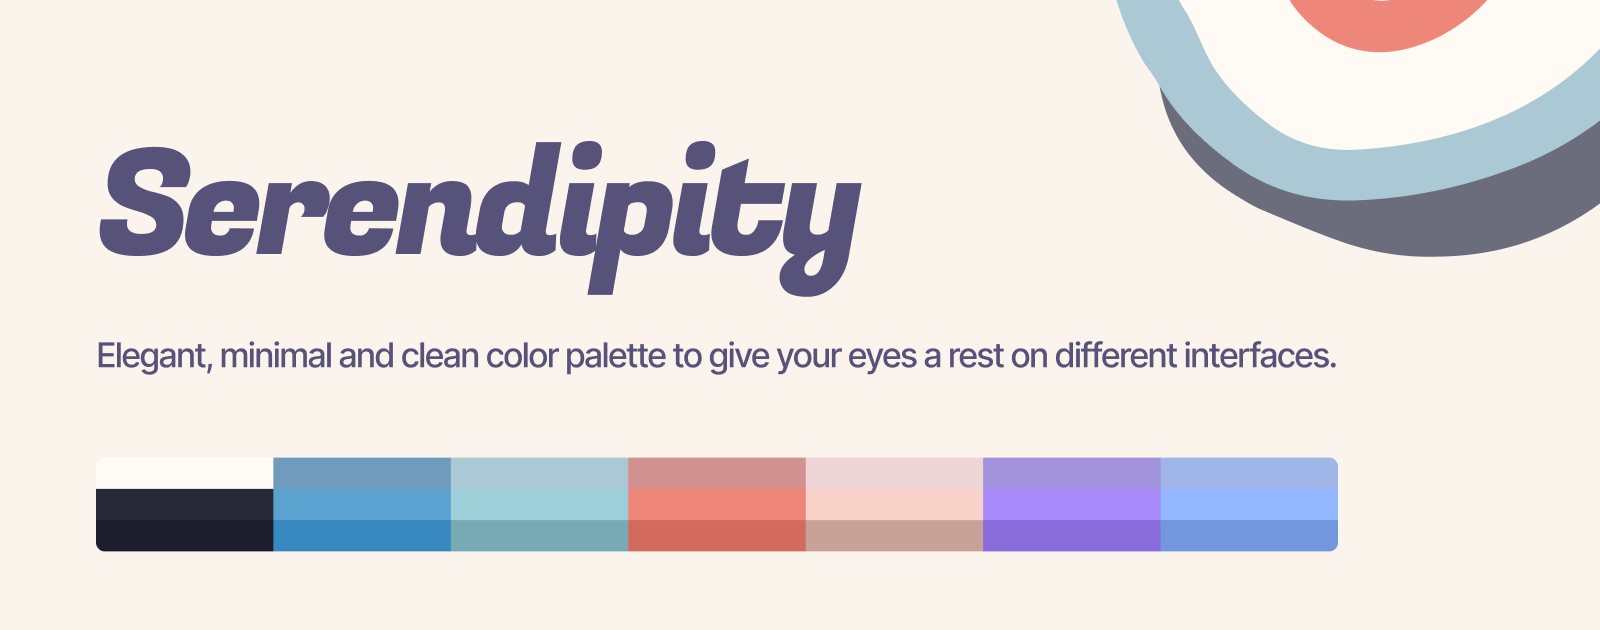
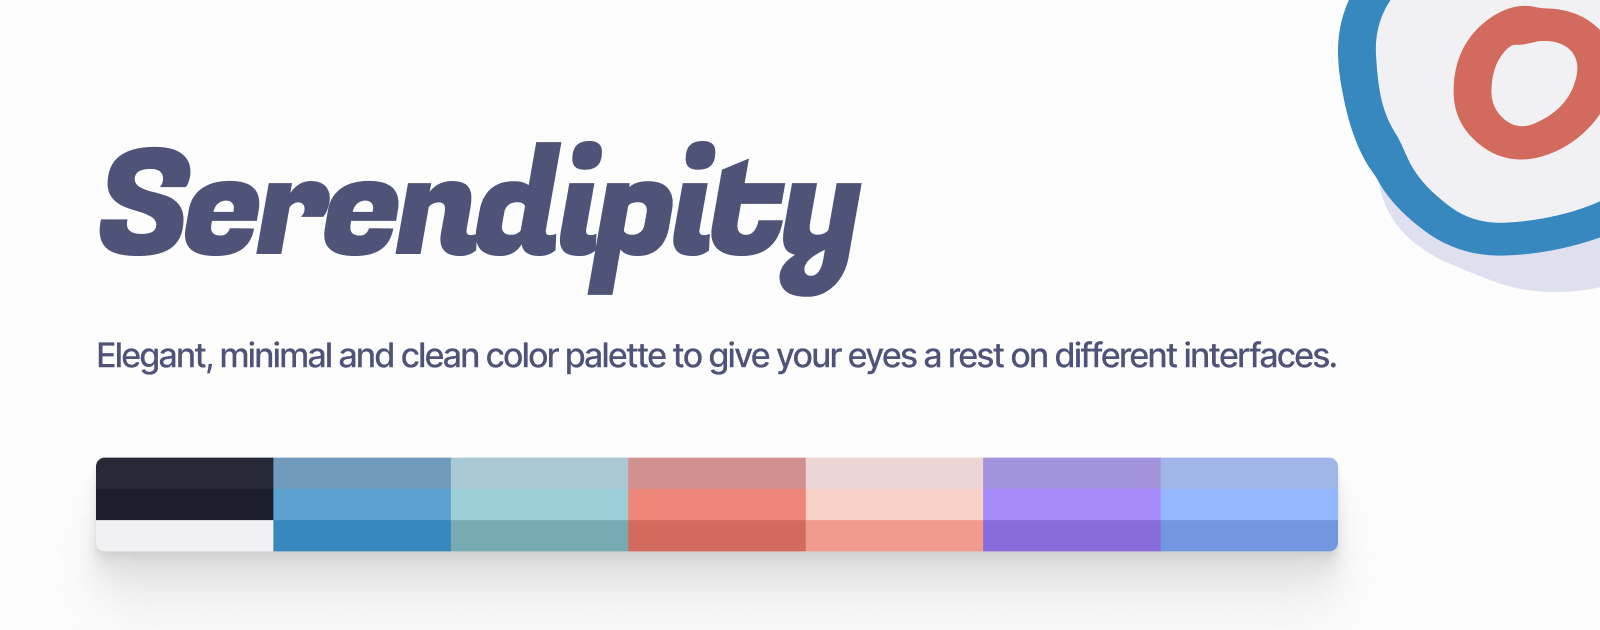
clean open graph

Changed region(s): [[0.6875, 0.0, 1.0, 0.4825], [0.0625, 0.8143, 0.8438, 0.9048], [0.0625, 0.7238, 0.1875, 0.7841]]

diff --git a/src/partials/global/logo.html b/src/partials/global/logo.html
@@ -4,20 +4,24 @@
   >
     <svg
       class="w-6 h-6"
-      viewBox="0 0 533 539"
+      viewBox="0 0 487 431"
       fill="none"
       xmlns="http://www.w3.org/2000/svg"
     >
       <path
-        d="M249.545 512.553C177.566 513.012 133.096 496.049 94.5847 463.956C73.4955 446.992 58.3663 425.445 47.8217 401.146C30.4002 359.885 18.4802 317.248 12.5202 273.235C7.93561 240.685 8.39407 208.134 17.1048 176.041C33.6095 115.983 69.3694 69.6783 119.342 34.377C151.434 11.9124 188.111 4.11851 226.163 2.28466C255.046 0.909275 283.471 5.49389 310.979 13.7462C338.486 22.457 365.535 32.5431 392.585 43.5462C416.425 53.1737 436.139 69.2199 451.268 90.3091C482.445 132.946 501.7 180.168 507.66 232.891C510.87 262.691 506.285 291.574 494.365 318.623C467.316 379.598 426.511 429.571 371.954 466.707C328.4 496.507 280.262 512.553 249.545 512.553Z"
-        fill="#FDFDFE"
+        d="M243.203 430.977C223.718 431.31 201.558 427.988 180.163 420.681C159.914 413.706 140.047 405.07 120.18 396.766C113.302 393.777 107.19 389.791 101.077 386.137C73.9503 369.198 56.3756 346.944 48.7344 318.379C40.3291 285.829 39.947 253.61 51.4088 221.392C59.05 200.135 71.658 181.534 87.3224 164.595C91.5251 160.277 97.638 156.955 102.605 153.302C105.661 150.977 109.482 148.652 111.774 145.662C139.665 109.458 178.635 85.8757 224.864 70.5969C264.216 57.9753 304.332 52.3288 346.359 53.3252C444.548 55.6503 494.216 133.705 485.428 194.156C482.754 212.424 479.315 231.024 474.349 248.96C465.943 280.847 449.515 309.743 426.973 336.315C410.163 356.244 390.678 374.18 368.9 390.455C333.751 416.695 293.635 431.31 243.203 430.977Z"
+        fill="#363847"
       />
       <path
-        d="M532.417 267.406C532.417 290.788 530.583 313.711 524.623 336.175C519.58 355.889 512.245 374.686 500.325 391.191C465.482 439.329 423.761 479.674 368.745 504.431C323.816 524.603 277.053 536.523 227.539 538.815C185.819 540.649 148.684 527.812 117.05 500.305C91.376 478.298 68.9114 453.083 54.2406 421.908C50.5729 414.114 45.0714 406.778 40.9453 398.985C21.2314 360.932 12.0622 320.129 5.64376 278.409C1.05915 249.526 -1.23315 220.185 2.893 190.843C11.6038 128.951 44.613 82.1877 94.5852 46.4277C142.724 12.5013 197.281 -0.794053 256.422 0.581331C286.681 1.49826 316.022 6.54132 344.447 17.5444C368.287 26.7136 392.127 36.7998 415.05 47.803C450.351 64.3077 476.943 89.9815 495.74 124.366C520.956 168.837 532.417 216.517 532.417 267.406ZM482.903 268.323C481.528 222.477 471.9 185.8 451.268 148.206C437.973 123.908 419.634 106.028 394.878 94.5661C369.204 82.6461 343.53 70.7261 316.481 62.4738C251.379 42.7598 187.653 47.3446 129.428 84.9384C77.6221 118.406 48.739 165.628 51.9483 228.437C54.2406 269.698 56.9914 310.96 77.6221 348.554C84.499 360.932 89.0837 374.686 94.5852 387.982C106.047 417.782 126.677 441.163 150.059 461.794C172.065 481.049 197.739 489.76 227.081 487.926C233.958 487.468 240.834 487.009 247.711 486.092C332.527 475.548 402.671 438.871 453.561 368.726C464.565 353.138 473.276 336.634 476.485 318.295C479.236 301.791 480.611 284.828 482.903 268.323Z"
-        fill="#7397DE"
+        d="M208.028 369.926C148.045 370.258 110.985 357.969 78.8917 334.718C61.317 322.429 48.709 306.818 39.9216 289.214C25.4034 259.321 15.4698 228.431 10.503 196.545C6.68244 172.962 7.0645 149.38 14.3236 126.129C28.0778 82.618 57.8784 49.071 99.5229 23.4956C126.267 7.22036 156.832 1.57385 188.543 0.245258C212.613 -0.751186 236.3 2.57029 259.224 8.54896C282.147 14.8598 304.689 22.167 327.231 30.1386C347.098 37.1137 363.526 48.7389 376.134 64.0177C402.114 94.9074 418.161 129.119 423.128 167.316C425.802 188.905 421.981 209.831 412.048 229.427C389.506 273.603 355.503 309.807 310.038 336.711C273.742 358.301 233.626 369.926 208.028 369.926Z"
+        fill="#F1F1F4"
       />
       <path
-        d="M156.477 282.535C156.936 245.859 166.105 212.391 191.32 184.425C201.865 172.963 213.785 163.335 227.997 157.375C240.834 151.874 254.13 150.498 267.884 154.166C274.76 156 282.096 156 289.431 156.459C307.311 158.292 323.816 163.794 338.028 174.797C365.077 195.428 375.163 223.852 373.33 256.862C370.12 312.335 328.4 367.809 275.677 385.231C245.877 395.317 217.453 389.815 193.613 368.726C167.48 345.803 156.019 316.92 156.477 282.535ZM207.367 282.077C206.908 299.957 211.951 315.086 224.788 327.923C235.791 338.468 249.087 341.677 263.299 335.259C295.391 320.129 315.564 295.831 321.982 260.529C328.4 225.686 306.853 203.222 271.551 206.889C267.425 207.348 262.84 209.182 258.714 210.099C253.213 211.015 247.711 212.849 242.668 212.391C236.25 211.932 232.582 214.683 228.456 218.809C212.41 237.148 208.284 259.154 207.367 282.077Z"
+        d="M443.759 193.38C443.759 210.319 442.231 226.927 437.264 243.202C433.062 257.484 426.949 271.102 417.015 283.06C387.979 317.935 353.211 347.164 307.364 365.1C269.922 379.715 230.952 388.351 189.69 390.011C154.922 391.34 123.975 382.04 97.6132 362.111C76.2179 346.168 57.4969 327.9 45.271 305.314C42.2146 299.667 37.6298 294.353 34.1913 288.706C17.7627 261.138 10.1215 231.577 4.77271 201.351C0.952112 180.426 -0.958187 159.168 2.48035 137.911C9.73948 93.0711 37.2478 59.192 78.8923 33.2844C119.009 8.70547 164.474 -0.92682 213.759 0.069624C238.975 0.73392 263.427 4.38755 287.115 12.3591C306.982 19.0021 326.849 26.3093 345.952 34.2809C375.371 46.2382 397.53 64.8385 413.194 89.7496C434.208 121.968 443.759 156.511 443.759 193.38ZM402.497 194.044C401.351 160.829 393.327 134.257 376.135 107.021C365.055 89.4174 349.773 76.4637 329.141 68.16C307.746 59.5241 286.351 50.8883 263.809 44.9096C209.557 30.6272 156.45 33.9487 107.929 61.1848C64.7561 85.4316 40.6863 119.643 43.3607 165.147C45.271 195.04 47.5634 224.934 64.7561 252.17C70.487 261.138 74.3076 271.102 78.8923 280.735C88.4438 302.324 105.636 319.264 125.121 334.21C143.46 348.161 164.856 354.471 189.308 353.143C195.038 352.811 200.769 352.479 206.5 351.814C277.181 344.175 335.636 317.603 378.045 266.784C387.214 255.491 394.474 243.534 397.148 230.248C399.44 218.291 400.587 206.001 402.497 194.044Z"
+        fill="#3788BE"
+      />
+      <path
+        d="M130.47 204.341C130.852 177.769 138.493 153.522 159.507 133.261C168.294 124.957 178.228 117.982 190.071 113.664C200.769 109.678 211.849 108.682 223.311 111.339C229.042 112.668 235.154 112.668 241.267 113C256.168 114.328 269.922 118.314 281.766 126.286C304.307 141.232 312.713 161.826 311.184 185.74C308.51 225.93 273.743 266.12 229.806 278.742C204.972 286.049 181.284 282.063 161.417 266.784C139.64 250.177 130.088 229.252 130.47 204.341ZM172.879 204.008C172.497 216.962 176.699 227.923 187.397 237.223C196.566 244.863 207.646 247.188 219.49 242.538C246.234 231.577 263.045 213.973 268.394 188.397C273.742 163.154 255.786 146.879 226.367 149.536C222.929 149.868 219.108 151.197 215.669 151.861C211.085 152.525 206.5 153.854 202.297 153.522C196.948 153.19 193.892 155.183 190.453 158.172C177.081 171.458 173.643 187.401 172.879 204.008Z"
         fill="#D26A5D"
       />
     </svg>
